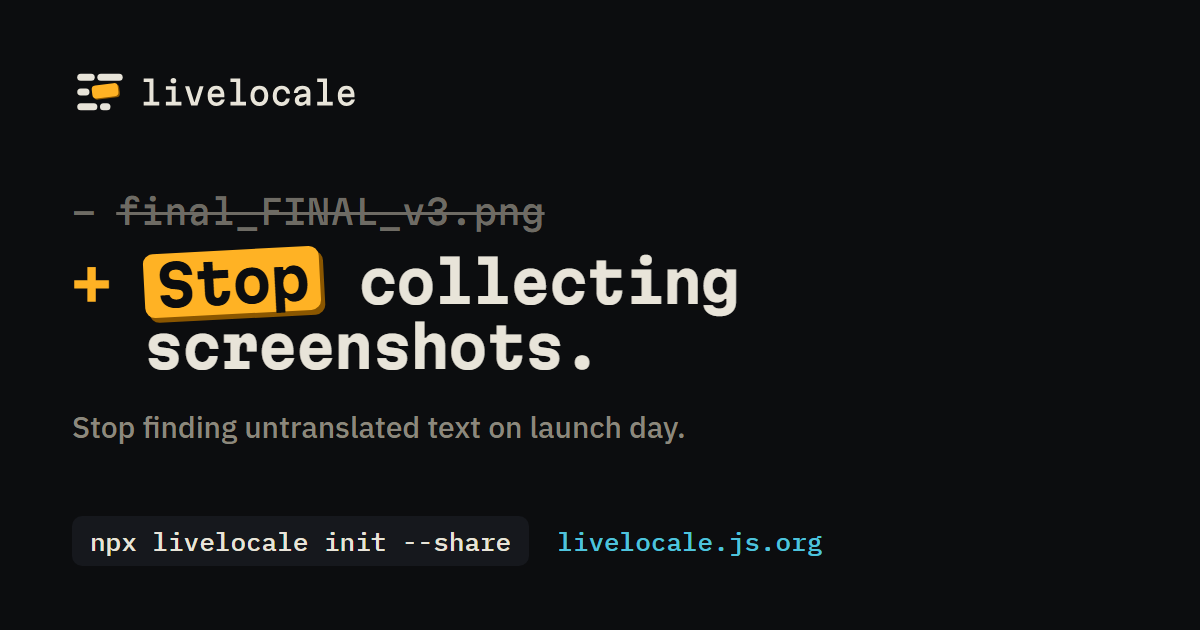
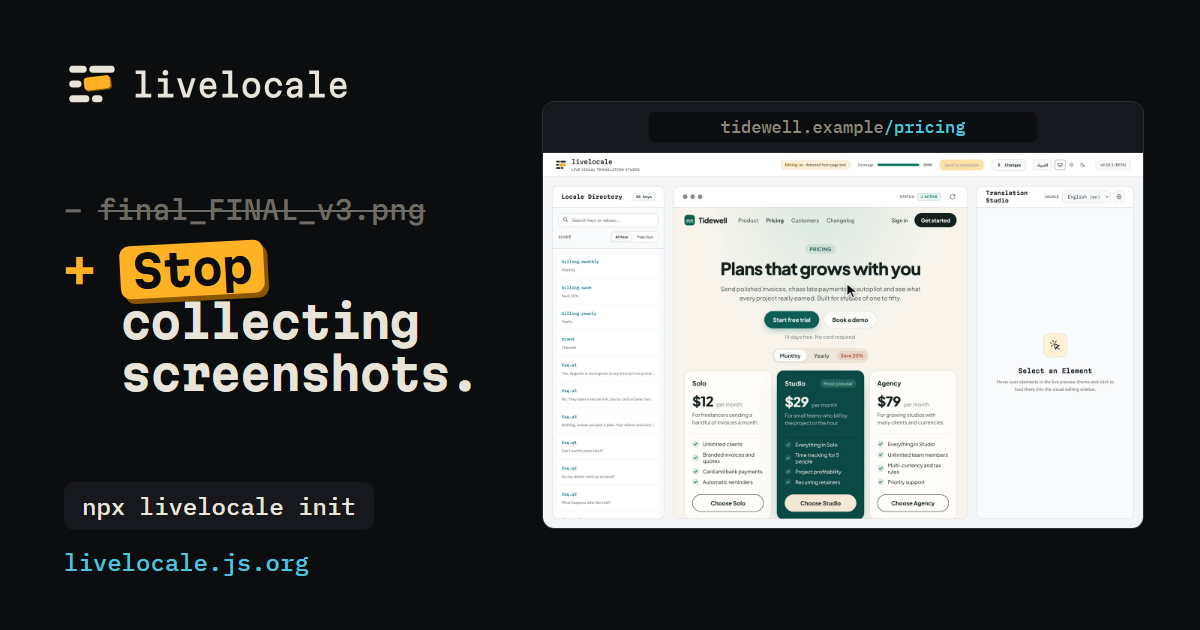
feat(site): redo the social card from the real hero frame and tag every docs page

diff --git a/brand/src/og.html b/brand/src/og.html
@@ -1,7 +1,8 @@
 <!doctype html>
 <!--
-  The 1200×630 share image (rendered to og-image.png), dark: the diff pair of spec §2.4a on Night.
-  Open with ?shot=<file URL> to show a Studio screenshot in the right half.
+  The 1200×630 share image (rendered to og-image.png), dark: the diff pair of spec §2.4a on Night,
+  and the landing page's product window on the right. Open with ?shot=<file URL> to put a frame in
+  the window (render-pngs.mjs passes the real hero poster, site/media/hero/poster.png).
 -->
 <html lang="en">
   <head>
@@ -44,8 +45,8 @@
       body {
         box-sizing: border-box;
         display: flex;
-        gap: 48px;
-        padding: 64px 72px;
+        gap: 40px;
+        padding: 56px 56px 56px 64px;
       }
       .copy {
         display: flex;
@@ -73,7 +74,7 @@
       }
       .old {
         font:
-          500 34px/1.3 'Martian Mono',
+          500 26px/1.3 'Martian Mono',
           monospace;
         color: #6e6b64;
       }
@@ -83,7 +84,7 @@
       h1.line {
         margin-top: 16px;
         font:
-          700 56px/1.15 'Martian Mono',
+          700 44px/1.2 'Martian Mono',
           monospace;
         letter-spacing: -0.02em;
       }
@@ -99,18 +100,11 @@
         transform: rotate(-3deg);
         box-shadow: 4px 5px 0 #8a5600;
       }
-      .sub {
-        margin: 28px 0 0;
-        font:
-          500 30px/1.3 'IBM Plex Sans',
-          sans-serif;
-        color: #8c887d;
-      }
       .bottom {
         display: flex;
-        align-items: center;
-        flex-wrap: wrap;
-        gap: 28px;
+        flex-direction: column;
+        align-items: flex-start;
+        gap: 20px;
         margin-top: auto;
       }
       code {
@@ -120,28 +114,59 @@
         background: #16181d;
         color: #e8e4d9;
         font:
-          500 26px/1 'IBM Plex Mono',
+          500 24px/1 'IBM Plex Mono',
           monospace;
       }
       .url {
         font:
-          500 26px/1 'IBM Plex Mono',
+          500 24px/1 'IBM Plex Mono',
           monospace;
         color: #4fc3dc;
       }
-      #studio {
-        flex: 1;
-        min-width: 0;
+      /* The landing page's product window: Surface, a 1px Rule border, 12px radius, an address bar
+         holding the Night address pill. */
+      .window {
+        flex: none;
+        width: 600px;
         align-self: center;
+        overflow: hidden;
+        border: 1px solid #2a2d33;
+        border-radius: 12px;
+        background: #16181d;
       }
-      #studio[hidden] {
-        display: none;
+      .window-bar {
+        display: flex;
+        justify-content: center;
+        padding: 10px 16px;
+        border-bottom: 1px solid #2a2d33;
       }
-      #studio img {
+      .window-address {
+        width: 360px;
+        padding: 5px 14px;
+        border-radius: 6px;
+        background: #0c0d0f;
+        color: #8c887d;
+        font:
+          500 17px/1.2 'IBM Plex Mono',
+          monospace;
+        text-align: center;
+        white-space: nowrap;
+      }
+      .addr-path {
+        color: #4fc3dc;
+      }
+      .screen {
+        aspect-ratio: 16 / 10;
+        background: #0c0d0f;
+      }
+      .screen img {
         display: block;
         width: 100%;
-        border: 1px solid #2a2d33;
-        border-radius: 14px;
+        height: 100%;
+        object-fit: cover;
+      }
+      .screen img:not([src]) {
+        visibility: hidden;
       }
     </style>
   </head>
@@ -157,20 +182,23 @@
           <span><span class="patch">Stop</span> collecting screenshots.</span>
         </h1>
       </div>
-      <p class="sub">Stop finding untranslated text on launch day.</p>
       <div class="bottom">
-        <code>npx livelocale init --share</code>
+        <code>npx livelocale init</code>
         <span class="url">livelocale.js.org</span>
       </div>
     </main>
-    <aside id="studio" hidden><img alt="" /></aside>
+    <aside class="window">
+      <div class="window-bar">
+        <span class="window-address"
+          ><span class="addr-host">tidewell.example</span
+          ><span class="addr-path">/pricing</span></span
+        >
+      </div>
+      <div class="screen"><img id="shot" alt="" /></div>
+    </aside>
     <script>
       const shot = new URLSearchParams(location.search).get('shot');
-      if (shot) {
-        const studio = document.getElementById('studio');
-        studio.querySelector('img').src = shot;
-        studio.hidden = false;
-      }
+      if (shot) document.getElementById('shot').src = shot;
     </script>
   </body>
 </html>

diff --git a/site/docs/.vitepress/config.ts b/site/docs/.vitepress/config.ts
@@ -3,6 +3,7 @@
 import { fileURLToPath } from 'node:url';
 import { defineConfig, type MarkdownOptions } from 'vitepress';
 import { docsBase, landingHref, NAV, SIDEBAR, TITLE_TEMPLATE } from '../../src/lib/docs-config';
+import { siteConfig } from '../../src/lib/site-config';
 import { changelogPage } from './changelog';
 import { cliFence } from './cli-fence';
 import { searchA11y } from './search-a11y';
@@ -10,8 +11,14 @@ import hunk from './hunk-shiki.json';
 
 const base = docsBase(process.env);
 const landing = landingHref(base);
+const { siteUrl } = siteConfig(process.env);
 /** The h1's face (Martian Mono 700, Latin), preloaded on every page as the landing page does. */
 const HEADLINE_FONT = /^assets\/martian-mono-latin-700-normal[\w.-]*\.woff2$/;
+
+/** A page's absolute URL: `guides/studio.md` → `<site>docs/guides/studio.html`, an index → its folder. */
+function pageUrl(relativePath: string): string {
+  return `${siteUrl}docs/${relativePath.replace(/\.md$/, '.html').replace(/(^|\/)index\.html$/, '$1')}`;
+}
 
 export default defineConfig({
   base,
@@ -23,15 +30,25 @@ export default defineConfig({
   titleTemplate: TITLE_TEMPLATE,
   head: [
     ['link', { rel: 'icon', href: `${landing}favicon.svg`, type: 'image/svg+xml' }],
-    ['meta', { name: 'theme-color', content: '#0C0D0F' }],
   ],
-  transformHead({ assets }) {
+  // Each page's share tags: its own title, description and URL, the site's one share image.
+  transformHead({ assets, pageData, title, description }) {
     const font = assets.find(
       (asset) => asset.startsWith(base) && HEADLINE_FONT.test(asset.slice(base.length))
     );
     if (!font) throw new Error('the headline font (martian-mono-latin-700-normal) is missing');
     return [
       ['link', { rel: 'preload', as: 'font', type: 'font/woff2', crossorigin: '', href: font }],
+      ['meta', { name: 'theme-color', content: '#0C0D0F' }],
+      ['meta', { property: 'og:type', content: 'article' }],
+      ['meta', { property: 'og:title', content: title }],
+      ['meta', { property: 'og:description', content: description }],
+      ['meta', { property: 'og:url', content: pageUrl(pageData.relativePath) }],
+      ['meta', { property: 'og:image', content: `${siteUrl}og-image.png` }],
+      ['meta', { property: 'og:image:width', content: '1200' }],
+      ['meta', { property: 'og:image:height', content: '630' }],
+      ['meta', { property: 'og:image:alt', content: 'livelocale: Stop collecting screenshots.' }],
+      ['meta', { name: 'twitter:card', content: 'summary_large_image' }],
     ];
   },
   // JSON widens the theme's "type": "dark" to string, so the import needs the cast.

diff --git a/tests/site/docs-meta.spec.ts b/tests/site/docs-meta.spec.ts
@@ -1,0 +1,59 @@
+import { test, expect } from '@playwright/test';
+import { SIDEBAR } from '../../site/src/lib/docs-config';
+
+const SITE = 'http://localhost:4173/livelocale/';
+
+/** The docs URL of a sidebar link, relative to the site base (`/` gives `docs/`). */
+const docsUrl = (link: string) => `docs${link.endsWith('/') ? link : link + '.html'}`;
+
+test('gives every docs page its own title, description and absolute share tags', async ({
+  page,
+  request,
+}) => {
+  const titles = new Set<string>();
+  const descriptions = new Set<string>();
+  const images = new Set<string>();
+  for (const link of SIDEBAR.flatMap((g) => g.items.map((i) => i.link))) {
+    const url = docsUrl(link);
+    await page.goto(url);
+    // Every <meta> by its property or name, read once, so a missing tag fails at once.
+    const tags = await page.evaluate(() =>
+      [...document.querySelectorAll('meta')].map((m) => [
+        m.getAttribute('property') ?? m.getAttribute('name'),
+        m.content,
+      ])
+    );
+    const meta = (p: string) => tags.find(([key]) => key === p)?.[1];
+
+    const title = await page.title();
+    expect(title, url).toMatch(/\S \| livelocale docs$/);
+    expect(titles.has(title), `${url}: duplicate title ${title}`).toBe(false);
+    titles.add(title);
+
+    const description = meta('description') ?? '';
+    expect(description, url).not.toBe('');
+    expect(descriptions.has(description), `${url}: duplicate description`).toBe(false);
+    descriptions.add(description);
+
+    expect(meta('og:type'), url).toBe('article');
+    expect(meta('og:title'), url).toBe(title);
+    expect(meta('og:description'), url).toBe(description);
+    expect(meta('og:url'), url).toBe(`${SITE}${url}`);
+    expect(meta('og:image:width'), url).toBe('1200');
+    expect(meta('og:image:height'), url).toBe('630');
+    expect(meta('og:image:alt'), url).toBe('livelocale: Stop collecting screenshots.');
+    expect(meta('twitter:card'), url).toBe('summary_large_image');
+    expect(
+      tags.filter(([key]) => key === 'theme-color'),
+      url
+    ).toEqual([['theme-color', '#0C0D0F']]);
+    const image = meta('og:image') ?? '';
+    expect(image, url).toBe(`${SITE}og-image.png`);
+    images.add(image);
+  }
+  for (const image of images) {
+    const response = await request.get(image);
+    expect(response.status(), image).toBe(200);
+    expect(response.headers()['content-type'], image).toBe('image/png');
+  }
+});

diff --git a/tests/unit/brand/brand-png.test.ts b/tests/unit/brand/brand-png.test.ts
@@ -1,7 +1,7 @@
 // @vitest-environment node
 import * as fs from 'node:fs';
 import { faviconSvg } from '../../../site/scripts/brand/marks.mjs';
-import { PNG_TARGETS, pngSources } from '../../../site/scripts/brand/render-pngs.mjs';
+import { HERO_POSTER, PNG_TARGETS, pngSources } from '../../../site/scripts/brand/render-pngs.mjs';
 import { pngSize, pngTopLeft } from '../../../site/scripts/brand/png-size.mjs';
 
 it('reads the size from the PNG header and rejects other files', () => {
@@ -56,6 +56,11 @@ it('paints the avatar, the touch icon and the og-image on Night', () => {
   for (const file of ['avatar-512.png', 'apple-touch-icon.png', 'og-image.png']) {
     expect(pngTopLeft(fs.readFileSync(`brand/${file}`)), file).toEqual([12, 13, 15]);
   }
+});
+
+it('puts the real hero frame in the share image', () => {
+  expect(fs.existsSync(HERO_POSTER)).toBe(true);
+  expect(pngSources(HERO_POSTER)['og-image.png'].url).toContain(encodeURIComponent('poster.png'));
 });
 
 it('reads the first pixel of a PNG', () => {

diff --git a/tests/unit/brand/brand-templates.test.ts b/tests/unit/brand/brand-templates.test.ts
@@ -15,6 +15,9 @@ it('writes the og-image as the diff pair on Night', () => {
     'martian-mono-latin-700-normal.woff2',
     'ibm-plex-sans-latin-500-normal.woff2',
     'ibm-plex-mono-latin-500-normal.woff2',
+    'npx livelocale init<',
+    'tidewell.example',
+    'livelocale.js.org',
   ]) {
     expect(og, text).toContain(text);
   }
